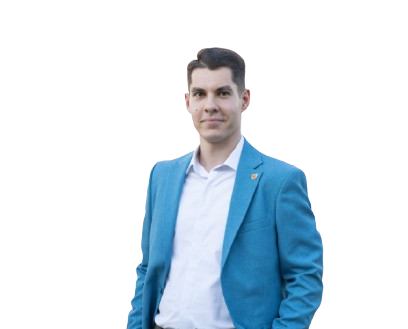
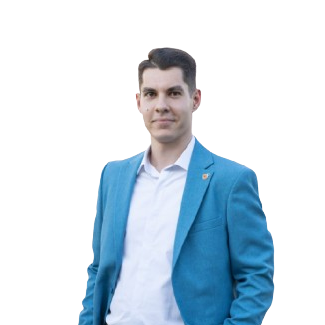
Added mobile responsiveness

diff --git a/styles.css b/styles.css
@@ -3,26 +3,26 @@
     margin: 0;
     padding: 0;
     font-family: Arial, sans-serif;
-  }
-  
-  body {
+}
+
+body {
     background-color: #f9fafb;
     color: #333;
     padding: 20px;
-  }
+}
 
-  :root {
+:root {
     --main-color: #239F47;
     --secondary-color: #777;
     --background-color: #fff;
     --shadow-color: rgba(0, 0, 0, 0.1);
 }
 
-  h3 {
+h3 {
     font-size: 1em;
-  }
-  
-  .title-section {
+}
+
+.title-section {
     display: flex;
     align-items: center;
     justify-content: space-between;
@@ -31,6 +31,7 @@
     border-radius: 10px;
     box-shadow: 0 4px 12px var(--shadow-color);
     margin-bottom: 40px;
+    flex-wrap: wrap;
 }
 
 .title-text h1 {
@@ -53,7 +54,6 @@
     margin-right: 10vw;
 }
 
-/* Team section */
 .team-section {
     margin: 40px 0;
 }
@@ -107,12 +107,12 @@
     color: #555;
 }
 
-/* Problem and Solution Section */
 .problem-solution-section {
     display: flex;
     justify-content: space-between;
     gap: 20px;
     margin: 40px 0;
+    flex-wrap: wrap;
 }
 
 .problem, .solution, .value {
@@ -122,6 +122,7 @@
     padding: 20px;
     box-shadow: 0 4px 8px var(--shadow-color);
     flex: 1;
+    margin: 10px 0;
 }
 
 h2 {
@@ -132,7 +133,6 @@ h2 {
     padding-bottom: 5px;
 }
 
-/* Sections */
 .customer-segments, .competition, .advantage, .key-metrics, .cost-structure, .revenue-streams {
     background-color: var(--background-color);
     border: 1px solid var(--main-color);
@@ -149,7 +149,6 @@ h2 {
     padding-bottom: 5px;
 }
 
-/* General Card Styles */
 .team-cards .card, .problem-solution-section .problem, .problem-solution-section .solution, .problem-solution-section .value {
     transition: transform 0.3s ease;
 }
@@ -157,4 +156,66 @@ h2 {
 .team-cards .card:hover, .problem-solution-section .problem:hover, .problem-solution-section .solution:hover, .problem-solution-section .value:hover {
     transform: translateY(-5px);
     box-shadow: 0 6px 15px var(--shadow-color);
+}
+
+@media (max-width: 768px) {
+    .title-section {
+        flex-direction: column;
+        align-items: center;
+        text-align: center;
+        padding: 20px;
+    }
+
+    .title-text h1, .title-text h2 {
+        margin-left: 0;
+        font-size: 2em;
+    }
+
+    .title-section .main-photo {
+        width: 250px;
+        margin: 20px 0;
+    }
+
+    .problem-solution-section {
+        flex-direction: column;
+    }
+
+    .team-cards {
+        gap: 15px;
+    }
+
+    .card {
+        width: 180px;
+        padding: 15px;
+    }
+
+    .customer-segments, .competition, .advantage, .key-metrics, .cost-structure, .revenue-streams {
+        padding: 15px;
+    }
+
+    h2 {
+        font-size: 1.5em;
+    }
+}
+
+@media (max-width: 480px) {
+    .title-text h1 {
+        font-size: 1.8em;
+    }
+
+    .title-text h2 {
+        font-size: 1.2em;
+    }
+
+    .problem, .solution, .value, .team-cards .card {
+        width: 100%;
+    }
+
+    .team-cards {
+        flex-direction: column;
+    }
+
+    h2 {
+        font-size: 1.3em;
+    }
 }

diff --git a/index.html b/index.html
@@ -27,15 +27,15 @@
                 <p>Project Manager</p>
             </div>
             <div class="card">
-                <img src="alexv2.png" alt="Team Member Photo">
+                <img src="alexv3.png" alt="Team Member Photo">
                 <h3>Vâlcu Florin-Alexandru</h3>
                 <p>alexx.valcu17@gmail.com</p>
                 <p>Team Lead</p>
             </div>
             <div class="card">
-                <img src="path/to/member-photo.jpg" alt="Team Member Photo">
-                <h3>Popescu Ioan Emanuel Theodor</h3>
-                <p>balauru@example.com</p>
+                <img src="balauru.png" alt="Team Member Photo">
+                <h3>Popescu Ioan-Emanuel-Theodor</h3>
+                <p>themanuel31@gmail.com</p>
                 <p>Software Architect</p>
             </div>
             <div class="card">
